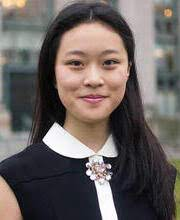
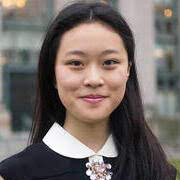
Add speakers page and crop images to squares

diff --git a/speakers.html b/speakers.html
@@ -1,0 +1,112 @@
+<!DOCTYPE html>
+<html lang="en">
+<head>
+    <meta charset="UTF-8">
+    <meta http-equiv="X-UA-Compatible" content="IE=edge">
+    <meta name="viewport" content="width=device-width, initial-scale=1.0">
+    <meta name="description" content="Harker Oeconomia seeks to communicate the importance of economics in the modern world, giving students opportunities to explore the field, meet professionals, submit written work, and advance their interest.">
+    <link rel="stylesheet" href="css/style.css">
+    <link rel="stylesheet" href="css/speakers.css">
+    <link rel="stylesheet" href="https://unpkg.com/swiper@8/swiper-bundle.min.css">
+    <link rel="shortcut icon" href="img/temp_favicon.png" type="image/x-icon">
+    <script src="js/app.js" defer></script>
+    <title>Oeconomia Economics Society</title>
+</head>
+<body>
+    <nav>
+        <a href="index.html"><img src="img/logo.png" class="logo" alt="Oeconomia Logo"></a>
+        <button class="page hamburger" id="hamburger">&#9776;</button>
+        <div class="pages" id="pages">
+            <a class="page" href="index.html">Home</a>
+            <a class="page" href="resources.html">Resources</a>
+            <a class="page current-page" href="speakers.html">Speakers</a>
+            <a class="page" href="equilibrium.html">Equilibrium</a>
+            <a class="page" href="competitions.html">Competitions</a>
+            <a class="page" href="team.html">Our Team</a>
+        </div>
+    </nav>
+    
+    <section class="title">
+        <h1>Speakers</h1>
+    </section>
+
+    <!-- using Swiper JS -->
+    <section class="carousel">
+        <div class="swiper">
+            <div class="swiper-wrapper">
+              <div class="swiper-slide">
+                  <img src="img/people/rupa_jack.jpeg" alt="Rupa Jack">
+                  <h3>Rupa Jack</h3>
+                  <div>Oeconomia is super excited to announce that Rupa Jack, a Senior Vice President and Wealth Advisor at Morgan Stanley, will be speaking about personal finance and the importance of networking. She will specifically be talking about the following topics:</div>
+                  <ul>
+                      <li>How to start being financially conscious as you’re entering college</li>
+                      <li>How to make and save money through investments and other financial strategies (even when you’re under 18)</li>
+                      <li>How to network and form career connections</li>
+                  </ul>
+              </div>
+              <div class="swiper-slide">
+                <img src="img/people/russ_roberts.jpeg" alt="Russ Roberts">
+                <h3>Russ Roberts</h3>
+                <div>We are so excited to announce our next speaker event, where we will be hosting Russ Roberts, the John and Jean De Nault Research Fellow at Stanford University’s Hoover Institution and the host of the award-winning podcast EconTalk. He’s known for making difficult economics topics easy to understand in his podcast, where he has interviewed people like Milton Friedman, Jill Lepore, and Michael Lewis. We encourage you to search him up and check him out at <a href="https://russroberts.info/">russroberts.info</a> and <a href="https://www.econtalk.org/">econtalk.org</a> (or Wikipedia, whatever you prefer).</div>
+              </div>
+              <div class="swiper-slide">
+                <img src="img/people/daryn_dodson.jpeg" alt="Daryn Dodson">
+                <h3>Daryn Dodson</h3>
+                <div>Daryn Dodson is the Managing Director of Illumen Capital, the world’s first private equity firm focused on reducing implicit bias, and an advocate for social and economic justice. His work with impact investors, Fortune 100 companies, private equity funds, and universities and foundations has been aimed at addressing some of the world’s most pressing social and environmental problems. He also currently serves on the Board of Directors for Ben and Jerry’s.</div>
+              </div>
+              <div class="swiper-slide">
+                <img src="img/people/larry_stone.jpeg" alt="Larry Stone">
+                <h3>Larry Stone</h3>
+                <div>Larry Stone is the County Assessor for Santa Clara County and was a former Mayor of Sunnyvale. Stone has also been a financial manager on Wall Street and has co-founded a successful Bay Area real estate investment and development firm. We are excited to hear what he has to say.</div>
+              </div>
+              <div class="swiper-slide">
+                <img src="img/people/angela_ma.jpeg" alt="Angela Ma">
+                <h3>Angela Ma</h3>
+                <div>Angela Ma, who graduated from Harker in 2014, is a current PhD candidate in business economics at Harvard Business School and the Harvard Economics Department. Her research interests lie in financial and behavioral economics.</div>
+              </div>
+              <div class="swiper-slide">
+                <img src="img/people/matthew_jackson.jpeg" alt="Matthew Jackson">
+                <h3>Matthew Jackson</h3>
+                <div>Dr. Matthew Jackson is the William D. Eberle Professor of Professor of Economics and Game Theory at Stanford. He also is an external faculty member of the Santa Fe Institute, and a fellow of CIFAR. Jackson has been honored with the Social Choice and Welfare Prize, the B.E.Press Arrow Prize for Senior Economists, and a Guggenheim Fellowship.</div>
+              </div>
+              <div class="swiper-slide">
+                <img src="img/people/randall_lewis.png" alt="Randall Lewis">
+                <h3>Randall Lewis</h3>
+                <div>Randall Lewis is an Economic Research Scientist in the Science & Algorithms team at Netflix. Lewis combines machine learning and econometrics to develop scalable causal measurement and prediction systems that help humans and machine-learning algorithms make optimal choices. Prior to joining Netflix in 2015, he worked at Google and Yahoo! Research where he studied advertising’s and digital markets.</div>
+                <div>You can find his blog <a href="http://econinformatics.com/blog/about/">here</a>.</div>
+              </div>
+              <div class="swiper-slide">
+                <img src="img/people/kelly_steckelberg.jpeg" alt="Kelly Steckelberg">
+                <h3>Kelly Steckelberg</h3>
+                <div>We will be holding a joint event with CareerConnect to host Ms. Kelly Steckelberg, the CFO of Zoom. She also currently holds roles as Board Member and Audit Committee Chair at Qualtrics. She will discuss her path to success, along with how she uses economic analysis in her work at Zoom today.</div>
+              </div>
+              <div class="swiper-slide">
+                <img src="img/people/guru_guruganesh.jpeg" alt="Guru Guruganesh">
+                <h3>Guru Guruganesh</h3>
+                <div>A Senior Research Scientist at Google Research, Dr. Guruganesh’s research focuses on new, provable algorithms at the intersection of algorithmic game theory, theoretical machine learning, and approximation algorithms. In his talk, he delves into the idea of equilibria being present in our day-to-day lives. He explainins various equilibria such as Mixed Nash Equilibrium and those present in the game of Chicken.</div>
+              </div>
+            </div>
+
+            <div class="swiper-button-prev"></div>
+            <div class="swiper-button-next"></div>
+        </div>
+        
+        <script src="https://unpkg.com/swiper@8/swiper-bundle.min.js"></script>
+        <script src="js/speakers.js"></script>
+    </section>
+
+
+    <section class="mailing">
+        <h2>Sign up for our mailing list!</h2>
+        <a href="contact.html">Contact Us</a>
+    </section>
+
+    <footer>
+        <h3>Additional Information</h3>
+        <div class="small-text">500 Saratoga Avenue</div>
+        <div class="small-text">San Jose, California</div>
+        <a href="mailto:oeconomia@students.harker.org?subject=Oeconomia Inquiry!">oeconomia@students.harker.org</a>
+        <div class="footer-text">Made with ❤ by Nelson Gou and Andy Chung. Adapted from <a href="https://oeconomia.harker.org" target="_blank" rel="noopener noreferrer">Harker's Oeconomia website</a>.</div>
+    </footer>
+</body>
+</html>

diff --git a/css/speakers.css b/css/speakers.css
@@ -1,0 +1,64 @@
+/* speaker carousel section */
+
+.carousel {
+    margin: 20px;
+}
+
+.swiper {
+    height: auto;
+    width: 100%;
+}
+
+.swiper-slide {
+    display: flex;
+    flex-direction: column;
+    justify-content: flex-start;
+    align-items: center;
+    font-size: 2em;
+    background-color: lightgray;
+    padding: 20px;
+    height: auto !important;
+}
+
+.swiper-slide div, .swiper-slide li {
+    font-size: 0.5em;
+}
+
+.swiper-slide h3 {
+    font-size: 1em;
+}
+
+.swiper-slide > * {
+    margin: 10px 0;
+}
+
+.swiper-slide img {
+    width: 50%;
+    height: auto;
+}
+
+.swiper-button-prev, .swiper-button-next {
+    color: black !important;
+}
+
+/* mailing list section */
+
+.mailing {
+    background-image: url(../img/mailing_list/mailing_2.jpeg);
+    background-position: center center;
+}
+
+/* title section */
+
+.title {
+    background-image: linear-gradient(lightgray, white);
+    display: flex;
+    flex-direction: column;
+    justify-content: center;
+    height: 300px;
+    padding: 0 20px;
+}
+
+.title > h1 {
+    font-size: 3em;
+}

diff --git a/js/speakers.js b/js/speakers.js
@@ -1,0 +1,10 @@
+const swiper = new Swiper(".swiper", {
+    direction: "horizontal",
+    loop: true,
+    slidesPerView: 2,
+    spaceBetween: 30,
+    navigation: {
+        nextEl: ".swiper-button-next",
+        prevEl: ".swiper-button-prev"
+    }
+});

diff --git a/css/style.css b/css/style.css
@@ -36,6 +36,7 @@ nav {
     align-items: center;
     justify-content: space-between;
     border-bottom: 1px solid black;
+    z-index: 100;
 }
 
 .hamburger {
